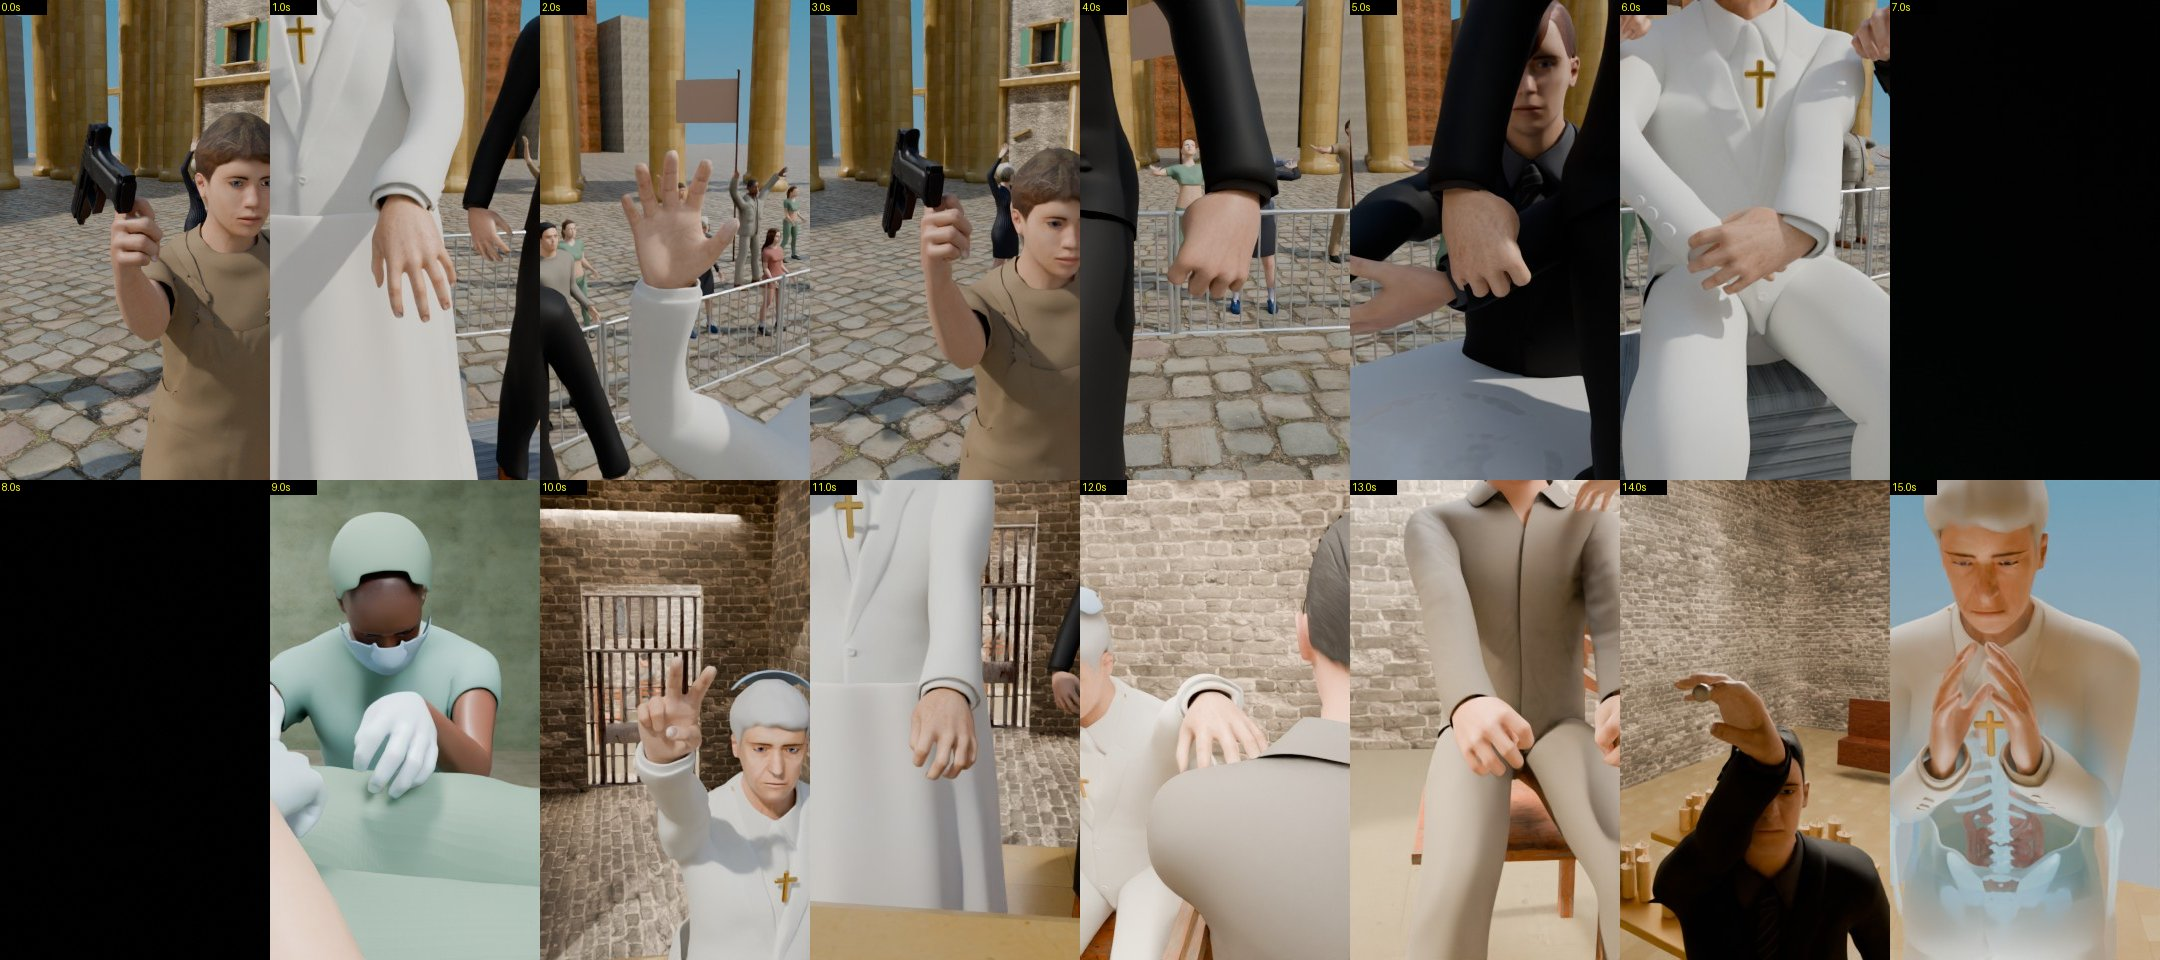
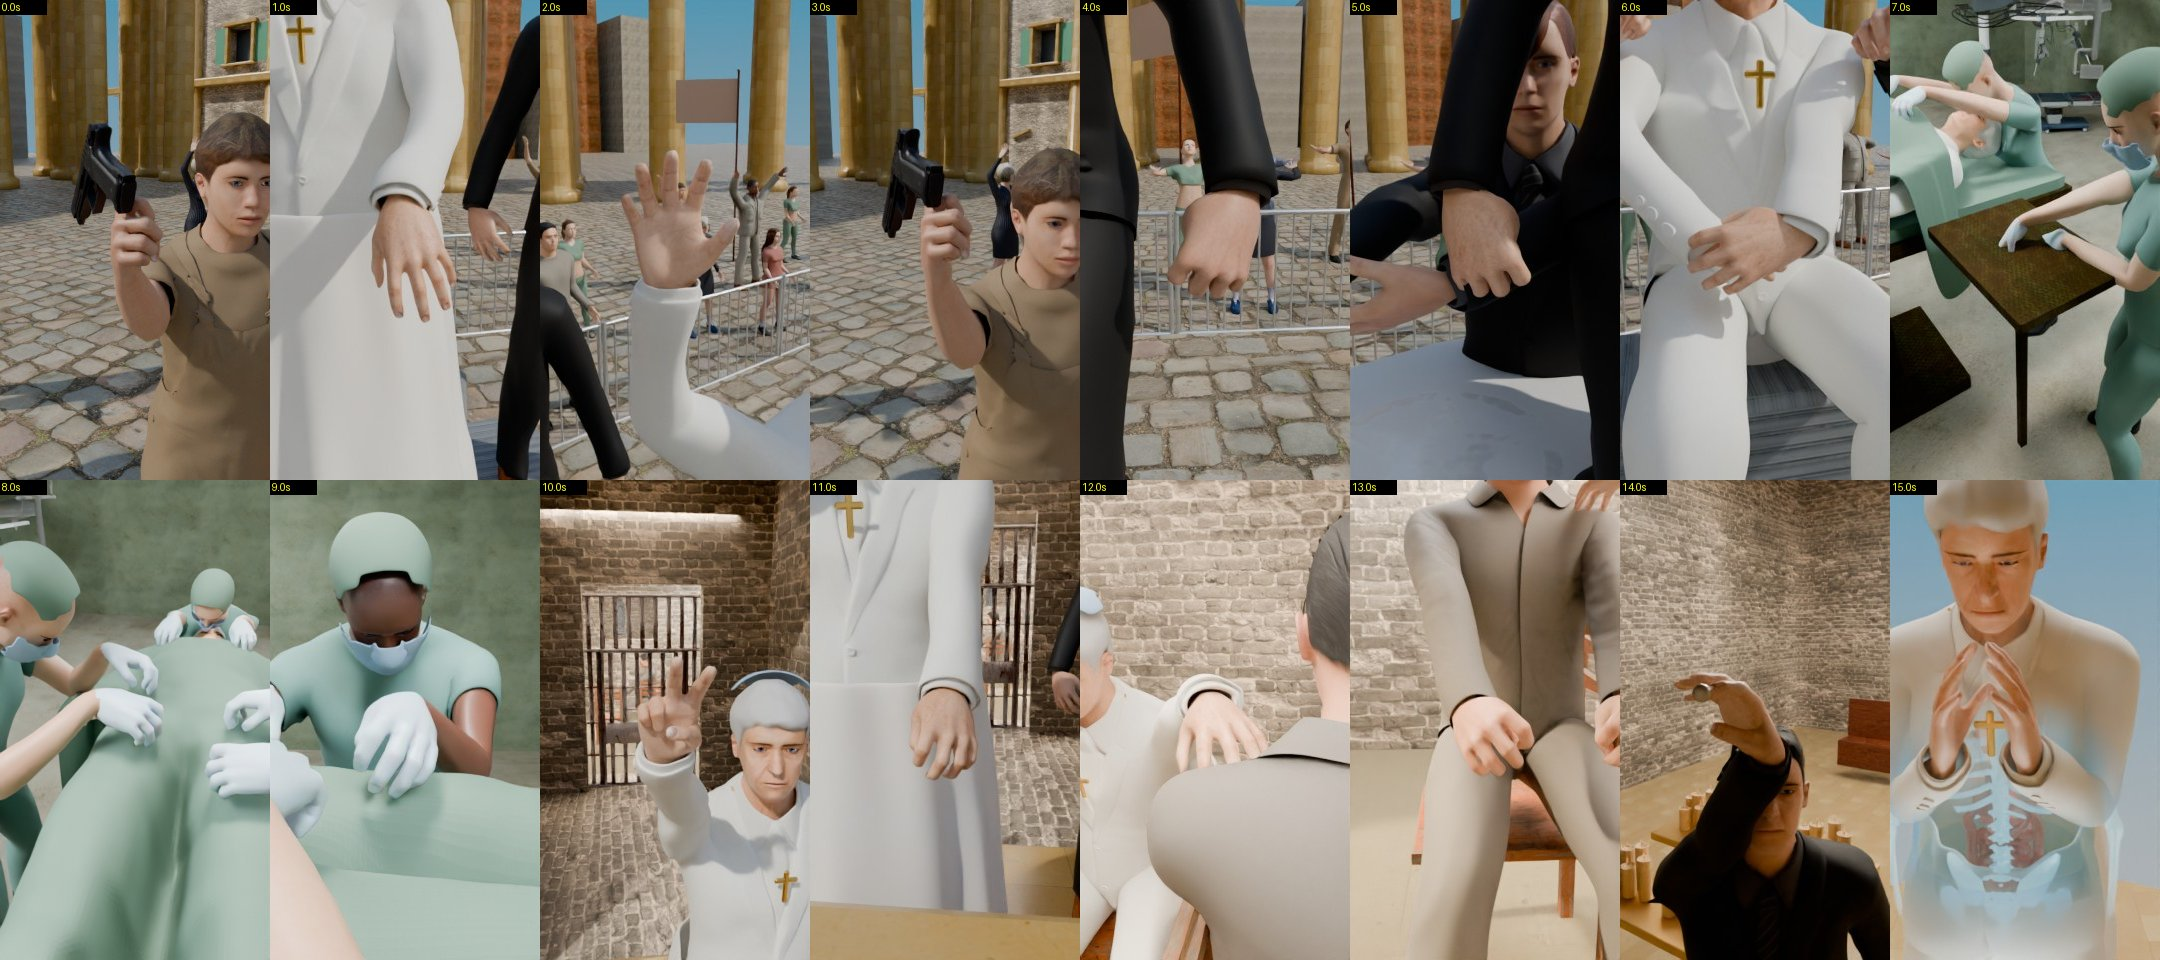
PopeShot v004: re-rendered 2 hand close-ups (were black), 6-point self-check
Claude-Session: https://claude.ai/code/session_01XfwPSnonRMxo2S9brj6Zr3

Changed region(s): [[0.8685, 0.0, 1.0, 0.5], [0.0, 0.5, 0.1241, 1.0]]

diff --git a/blender/PopeShot_v004/review/ACTING_notes.md b/blender/PopeShot_v004/review/ACTING_notes.md
@@ -41,3 +41,11 @@ Checked as OK:
   - **EMPTY 1261–1357:** the crown macro (beat 7, "placed in the crown of a statue"). It is a prop insert of the crown and the bullet; the cleric's hand enters at its start.
   - **BACKHEAD 1153:** the start of beat 7. The camera looks through the cell window into the shrine, with the Pope at 7 m seen from behind, praying before the statue. His face reads from 1375 (beat 8).
 - **Hand close-ups:** `after_v004_hand_closeups.jpg`.
+
+## Director 6-point self-check (looked at the images myself)
+1. **Hands touch what they hold: checked.** Pistol grip, the aides under the armpits, the Pope's hands on his stomach, the surgeons' fingertips on the drape, the nurse on the tray, the Pope's hand on the prisoner's shoulder, the bullet pinch at the crown, the prayer hands.
+2. **No claws: checked.** Idle hands use relaxed curls under Limit Rotation (no backward joints). The aides' outer hands at their sides are loosely curled, not clawed.
+3. **Nothing pressed into a face: checked.** qa_check reports FACEPRESS 0.
+4. **No empty, blurred or black cells, and no back-of-head on beats: checked on the sheets.** The QA EMPTY and BACKHEAD frames are the intended transitions and the beat-7 wide, listed above.
+5. **Close-ups show the hands: checked.** Two of the 16 close-ups (nurse, surgeon A) had been black because the close-up camera sat inside geometry. They were re-rendered from the packed v004 file with explicit cameras (`after_v004_hand_closeups.jpg`).
+6. **`hand_poses.py`: not applied in v004.** The director's library message reached me after the pass was finished. The contacts were set with IK targets, surface ray casts and finger curls instead, and every hand contact passed the checks above. It can be adopted in a v005 if wanted.
